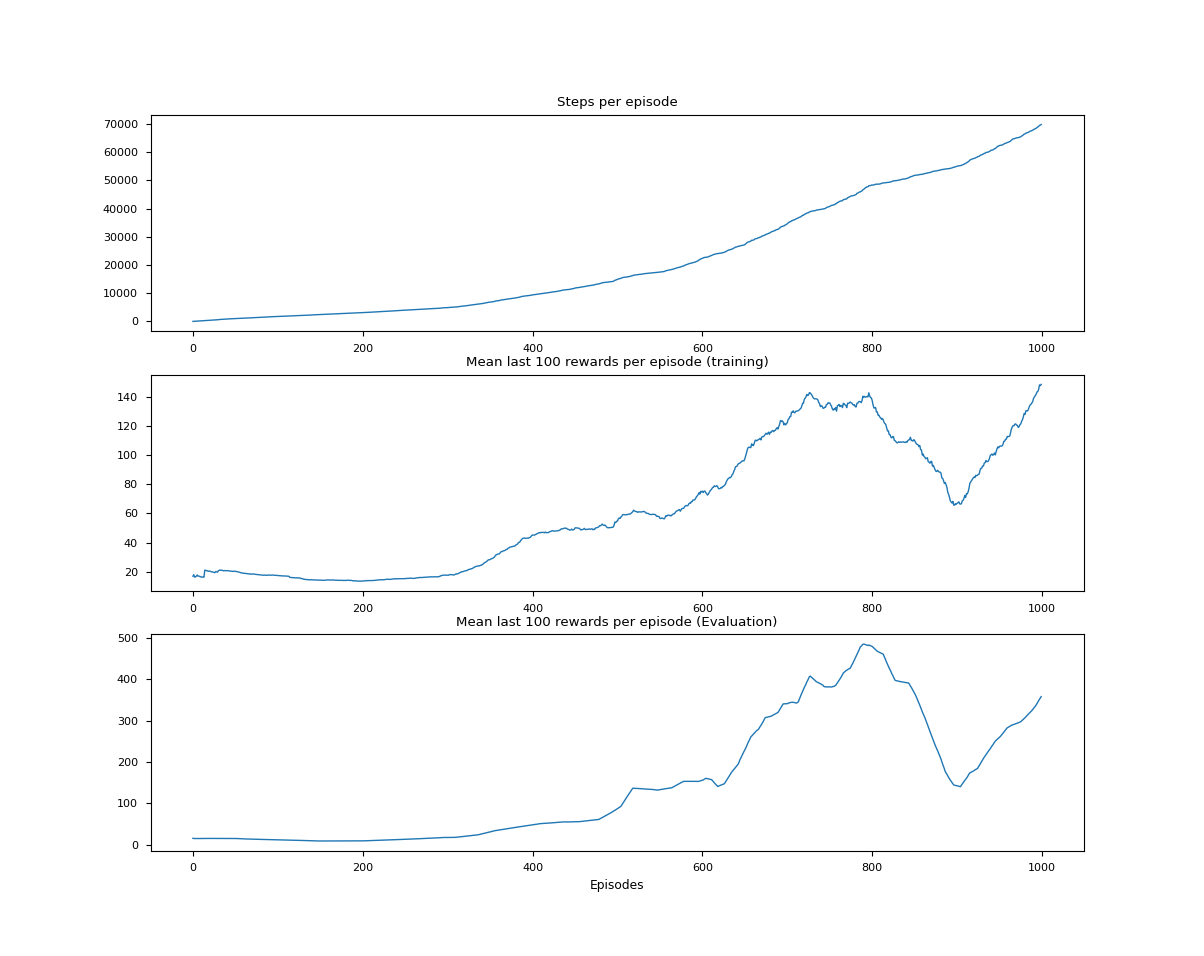
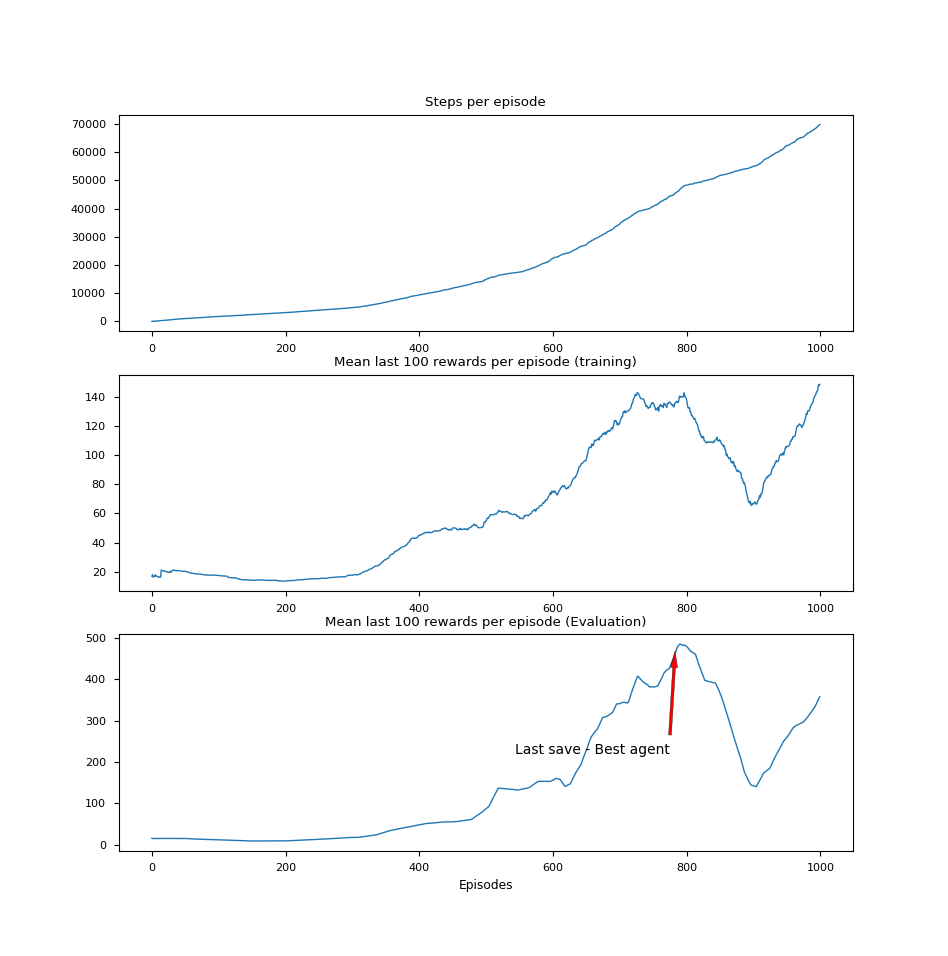
FCQ done

diff --git a/FCQ_stats.py b/FCQ_stats.py
@@ -22,5 +22,13 @@ if __name__ == "__main__":
     axs[2].plot(list(range(n_episodes)), result[:, 2], linewidth=1)
     axs[2].set_title("Mean last 100 rewards per episode (Evaluation)")
 
+    config_arrow = dict(headwidth=5, facecolor='red', shrink=0.05, width=2)
+    axs[2].annotate(
+        "Last save - Best agent", xy=(783, 480), xycoords='data',
+        xytext=(0.75, 0.5), textcoords='axes fraction',
+        arrowprops=config_arrow,
+        horizontalalignment='right', verticalalignment='top',
+    )
+
     plt.xlabel('Episodes')
     plt.show()
